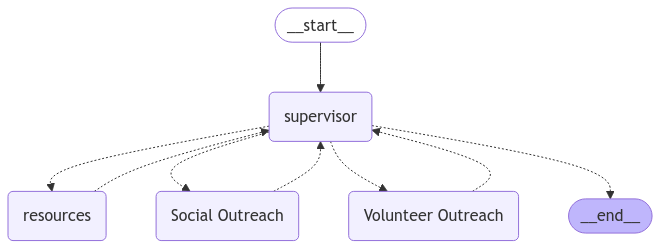
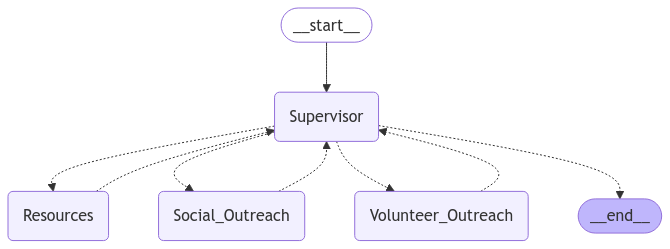
Added agent to Backend connection

diff --git a/backend/agents/agents_framework.py b/backend/agents/agents_framework.py
@@ -6,27 +6,86 @@ from typing_extensions import TypedDict
 from langchain_openai import ChatOpenAI
 from langgraph.graph import MessagesState, END
 from langgraph.types import Command
-from agent_outreach_social import agent_outreach_social
-from agent_resources import agent_resources
-from agent_outreach_volunteer import agent_outreach_volunteer
+from .agent_outreach_social import agent_outreach_social
+from .agent_outreach_volunteer import agent_outreach_volunteer
 from langchain_core.prompts import ChatPromptTemplate
 from langchain_core.prompts import MessagesPlaceholder
+from langchain.output_parsers.openai_functions import JsonOutputFunctionsParser
+from .resource_search_tool import SearchTool
 # from agent_supervisor import supervisor_node
+resourse_search_tool = SearchTool()
 
-
-members = ["resources", "Social Outreach", "Volunteer Outreach"]
+members = ["Resources", "Social_Outreach", "Volunteer_Outreach"]
 # Our team supervisor is an LLM node. It just picks the next agent to process
 # and decides when the work is completed
 options = members + ["FINISH"]
+llm = ChatOpenAI(model="gpt-3.5-turbo")
+
+resource_prompt = """You are a resource planning expert for social initiatives. 
+
+Make sure to use the following tool: resourse_search_tool
+
+When asked about an event:
+1. Identify all required resources across categories: 
+   - Personnel (medical staff, volunteers)
+   - Equipment & supplies
+   - Permits/licenses
+   - Facilities/venue
+   - Transportation
+   - Safety requirements
+
+And give the answer alone, do not add any extra lines, follow the same format as the examples provided.
+
+Example Q: What resources are needed for a community food distribution event?
+Answer:
+- Event Coordinator (1) 
+- Food Safety Supervisor (1) 
+- Volunteers (10-15) 
+- Commercial grade refrigeration units
+- Food storage containers and bags
+- PPE (gloves, hairnets, aprons)
+- Hand sanitizing stations
+
+
+Example Q: What do I need to organize a mobile vaccination clinic?
+Answer:
+- Licensed nurses
+- Medical director
+- Registration staff 
+- Post-vaccination observers 
+- Medical-grade refrigerators for vaccine storage
+- Vaccination supplies (needles, syringes, alcohol wipes)
+- Emergency response kit with epinephrine
+- Laptops/tablets for patient registration
+- Privacy screens
+- Medical practice license
+- Vaccine administration certification
+- Mobile clinic permit
+"""
 
 
 system_prompt = (
     "You are a supervisor tasked with managing a conversation between the"
-    f" following workers: {members}. Given the following user request,"
+    " following workers:  {members}. Given the following user request,"
     " respond with the worker to act next. Each worker will perform a"
     " task and respond with their results and status. When finished,"
     " respond with FINISH."
 )
+
+
+
+prompt = ChatPromptTemplate.from_messages(
+    [
+        ("system", system_prompt),
+        MessagesPlaceholder(variable_name="messages"),
+        (
+            "system",
+            "Given the conversation above, who should act next?"
+            " Or should we FINISH? Select one of: {options}",
+        ),
+    ]
+).partial(options=str(options), members=", ".join(members))
+
 
 
 class Router(TypedDict):
@@ -44,50 +103,52 @@ outreach_volunteer_agent = create_react_agent(
 )
 
 
-def outreach_volunteer_node(state: State) -> Command[Literal["supervisor"]]:
+def outreach_volunteer_node(state: State) -> Command[Literal["Supervisor"]]:
     result = outreach_volunteer_agent.invoke(state)
     return Command(
         update={
             "messages": [
-                HumanMessage(content=result["messages"][-1].content, name="researcher")
+                HumanMessage(content=result["messages"][-1].content, name="Volunteer_Outreach")
             ]
         },
-        goto="supervisor",
+        goto="Supervisor",
     )
 
 
 
 outreach_social_agent = create_react_agent(
-    llm, tools=[agent_outreach_social], prompt="DO NOT do any math."
+    llm, tools=[agent_outreach_social], prompt=""
 )
 
 
-def outreach_social_node(state: State) -> Command[Literal["supervisor"]]:
+def outreach_social_node(state: State) -> Command[Literal["Supervisor"]]:
+    print("HELLO")
+    print(state)
     result = outreach_social_agent.invoke(state)
     return Command(
         update={
             "messages": [
-                HumanMessage(content=result["messages"][-1].content, name="researcher")
+                HumanMessage(content=result["messages"][-1].content, name="Social_Outreach")
             ]
         },
-        goto="supervisor",
+        goto="Supervisor",
     )
 
 
 resources_agent = create_react_agent(
-    llm, tools=[agent_resources], prompt="DO NOT do any math."
+    llm, tools=[resourse_search_tool], prompt=resource_prompt
 )
 
 
-def resources_node(state: State) -> Command[Literal["supervisor"]]:
+def resources_node(state: State) -> Command[Literal["Supervisor"]]:
     result = resources_agent.invoke(state)
     return Command(
         update={
             "messages": [
-                HumanMessage(content=result["messages"][-1].content, name="researcher")
+                HumanMessage(content=result["messages"][-1].content, name="Resources")
             ]
         },
-        goto="supervisor",
+        goto="Supervisor",
     )
 
 def supervisor_node(state: State) -> Command[Literal[*members, "__end__"]]:
@@ -95,30 +156,40 @@ def supervisor_node(state: State) -> Command[Literal[*members, "__end__"]]:
         {"role": "system", "content": system_prompt},
     ] + state["messages"]
     response = llm.with_structured_output(Router).invoke(messages)
+
     goto = response["next"]
     if goto == "FINISH":
         goto = END
 
     return Command(goto=goto, update={"next": goto})
 
-builder = StateGraph(State)
-builder.add_edge(START, "supervisor")
-builder.add_node("supervisor", supervisor_node)
-builder.add_node("resources", resources_node)
-builder.add_node("Social Outreach", outreach_social_node)
-builder.add_node("Volunteer Outreach", outreach_volunteer_node)
-graph = builder.compile()
+def initialize_graph():
+    builder = StateGraph(State)
+    builder.add_edge(START, "Supervisor")
+    builder.add_node("Supervisor", supervisor_node)
+    builder.add_node("Resources", resources_node)
+    builder.add_node("Social_Outreach", outreach_social_node)
+    builder.add_node("Volunteer_Outreach", outreach_volunteer_node)
 
-# from IPython.display import Image
+    builder.set_entry_point("Supervisor")
+    return builder.compile()
 
-# # Generate and save the graph visualization as PNG
-# graph_png = graph.get_graph().draw_mermaid_png()
-# with open('graph_visualization.png', 'wb') as f:
-#     f.write(graph_png)
+def generate_graph_visualization(graph):
+    from IPython.display import Image
+    graph_png = graph.get_graph().draw_mermaid_png()
+    with open('graph_visualization.png', 'wb') as f:
+        f.write(graph_png)
 
-
-for s in graph.stream(
-    {"messages": [("user", "I want to organize a blood camp in North Carolina")]}, subgraphs=True
-):
-    print(s)
-    print("----")
+def process_user_message(user_message: str):
+    graph = initialize_graph()
+    responses = []
+    for s in graph.stream(
+        {
+            "messages": [
+                HumanMessage(content=user_message)
+            ]
+        }, config={"recursion_limit": 20}
+    ):
+        if "__end__" not in s:
+            responses.append(str(s))
+    return responses

diff --git a/backend/agents/resource_search_tool.py b/backend/agents/resource_search_tool.py
@@ -1,0 +1,29 @@
+from langchain.tools import BaseTool
+from typing import Optional, Type
+from pydantic import BaseModel, Field
+from langchain_community.chat_models import ChatPerplexity
+import os
+from dotenv import load_dotenv
+
+_ = load_dotenv()
+
+class SearchInput(BaseModel):
+    query: str = Field(description="The search query to look up information")
+
+class SearchTool(BaseTool):
+    name: str = "search"
+    description: str = "Useful for searching information online using Perplexity AI"
+    args_schema: Type[BaseModel] = SearchInput
+    
+    def _run(self, query: str) -> str:
+        """Use this tool to search for information using Perplexity AI."""
+        enhanced_query = f"{query}\n\nPlease identify all required resources across these categories:\n- Personnel (medical staff, volunteers)\n- Equipment & supplies\n- Permits/licenses\n- Facilities/venue\n- Transportation\n- Safety requirements\n\n"
+        
+        print("Using Perplexity")
+        perplexity = ChatPerplexity(api_key=os.getenv('PERPLEXITY_API_KEY'), model="sonar-pro")
+        response = perplexity.invoke(enhanced_query)
+        return response.content
+    
+    async def _arun(self, query: str) -> str:
+        """Use this tool asynchronously."""
+        raise NotImplementedError("Async not implemented")

diff --git a/backend/app.py b/backend/app.py
@@ -4,6 +4,8 @@ import openai
 from dotenv import load_dotenv
 import os
 from pymongo import MongoClient
+from agents.agents_framework import process_user_message
+from langchain_core.messages import HumanMessage
 
 load_dotenv()
 
@@ -11,6 +13,8 @@ app = Flask(__name__)
 CORS(app)
 openai.api_key = os.getenv("OPENAI_API_KEY")
 MONGODB_URI = os.environ['MONGODB_URI']
+
+print(MONGODB_URI)
 
 client = MongoClient(MONGODB_URI)
 
@@ -37,10 +41,18 @@ def chat():
     
     return Response(generate(), content_type="text/plain")
 
-
+@app.route("/agent", methods=["POST"])
+def agent(): 
+    user_message = request.json.get("message")
+    
+    def generate():
+        responses = process_user_message(user_message)
+        for response in responses:
+            yield str(response) + "\n----\n"
+    
+    return Response(generate(), content_type="text/plain")
 
 if __name__ == '__main__':
-    
     app.run(debug=True, port=5001)
     
     

diff --git a/backend/agents/old_agents/agent_resources.py b/backend/agents/old_agents/agent_resources.py
@@ -17,7 +17,6 @@ class AgentState(TypedDict):
 
 
 class Agent:
-
     def __init__(self, model, tools, system=""):
         self.system = system
         graph = StateGraph(AgentState)
